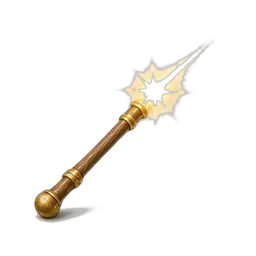
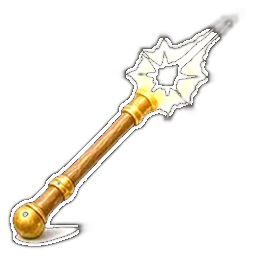
v238: de veer en de toverstok van Bezweringen zijn groter en helderder

Changed region(s): [[0.0312, 0.0312, 0.9375, 0.9688]]

diff --git a/bundel.js b/bundel.js
@@ -164,7 +164,7 @@ ${T?'<button class="knop volgende" id="gsdirect" style="font-size:1.35em;padding
  <section class="kaart hwblok"><h3>\u{1F4DC} Het verhaal</h3><ul class="hwverh">${g.map((ce,fe)=>{const me=ce.d<=U.i;return`<li class="${me?"":"dicht"}">${me?`<button class="linkknop" data-sc="${fe}">${A.sc[fe]?"":'<b class="hwnieuw">Nieuw</b> '}${ce.t}</button>`:`<span>\u{1F512} ${ce.t}</span><small>vanaf ${i(U.j,ce.d)}</small>`}</li>`}).join("")}</ul></section>
  </div>`);const Q=$("#hwclaim");Q&&(Q.onclick=T),document.querySelectorAll("[data-sc]").forEach(ce=>ce.onclick=()=>{const fe=+ce.dataset.sc;x(g[fe],()=>{A.sc[fe]||(A.sc[fe]=1,s(10,"verhaal"),toast("\u{1F4DC} +10 Pompoensnoepjes van Henk")),V.halloween()})}),document.querySelectorAll(".hwopties [data-o]").forEach(ce=>ce.onclick=()=>{const fe=+ce.dataset.o,me=m[N],Le=$("#hwraadres");if(fe===me[2]){A.raad[N]=1,s(15,"raadsel"),S.galjoenen+=10,bewaar();try{stats(),fx.speel("goed"),vib([20,30,40])}catch{}Le.innerHTML=`<div class="hwgoed">${window.tilly?tilly("<b>Goed zo!</b> "+me[3]):""}<p>+15 Pompoensnoepjes \xB7 +10 Smekkies</p><button class="knop klein" id="hwrv">Verder</button></div>`,document.querySelectorAll(".hwopties button").forEach(He=>He.disabled=!0),$("#hwrv").onclick=()=>V.halloween()}else{ce.disabled=!0,ce.classList.add("mis");try{fx.speel("kras")}catch{}Le.innerHTML='<p class="klein hwhint">Hmm, dat is het niet. Probeer gerust nog eens, er is geen haast.</p>'}})};const Z=V.kamer;Z&&(V.kamer=(...U)=>{const A=Z(...U);try{const N=document.querySelector(".kamer");N&&(S.hwTrofee||[]).length&&!N.querySelector(".hwtrofee")&&N.insertAdjacentHTML("beforeend",`<div class="hwtrofee" title="Gouden Pompoen ${S.hwTrofee.join(", ")}"><img src="img/hw/trofee-256.webp" alt="Gouden Pompoen"><small>Halloween ${S.hwTrofee.join(" \xB7 ")}</small></div>`)}catch{}return A});try{if(typeof KAARTEN<"u"&&!KAARTEN.some(U=>U[0]==L)&&(KAARTEN.push([L,"Z","Het huisspook van Griffoendor. Zijn hoofd hangt nog aan \xE9\xE9n reepje vel. Op 31 oktober vierde hij zijn vijfhonderdste sterfdag, en jij was erbij.","img/kaarten/haast-onthoofde-henk.webp","Feestdagen",1]),window.KAARTSERIES&&!KAARTSERIES.includes("Feestdagen")&&KAARTSERIES.push("Feestdagen")),typeof trekKaart=="function"){const U=trekKaart;trekKaart=function(){let A;for(let N=0;N<30;N++)if(A=U(),!A||!A[5])return A;return KAARTEN.find(N=>!N[5])}}}catch(U){console.warn(U)}const ee=V.maker;ee&&(V.maker=(...U)=>{const A=ee(...U);try{const N=o(),Q=localStorage.getItem("zw_hwdatum")||"";$("#app").insertAdjacentHTML("beforeend",`<section class="kaart sierlijst"><h3>Halloween (test)</h3><p class="klein">Nu: ${N.d.toLocaleDateString("nl-NL",{weekday:"long",day:"numeric",month:"long"})} \xB7 ${N.aan?"event AAN (dag "+(N.i+1)+" van 9"+(N.feest?", feestdag":"")+")":"event uit"}${Q?" \xB7 <b>testdatum</b>":""} \xB7 ${(S.hw&&S.hw.tot)|0} snoepjes, stap ${(S.hw&&S.hw.stap)|0}/10</p>
   <p><input type="date" id="hwdat" value="${Q||N.d.getFullYear()+"-"+e(N.d.getMonth()+1)+"-"+e(N.d.getDate())}"> <button class="knop klein" id="hwzet">Gebruik datum</button> <button class="knop klein" id="hwecht">Echte datum</button></p>
-  <p><button class="knop klein" id="hw100">+100 snoepjes</button> <button class="knop klein" id="hwwis">Halloween-voortgang wissen</button></p></section>`),$("#hwzet").onclick=()=>{localStorage.setItem("zw_hwdatum",$("#hwdat").value),te(),V.maker()},$("#hwecht").onclick=()=>{localStorage.removeItem("zw_hwdatum"),te(),V.maker()},$("#hw100").onclick=()=>{s(100,"test"),V.maker()},$("#hwwis").onclick=()=>{delete S.hw,bewaar(),V.maker()}}catch(N){console.warn(N)}return A})})(),(function(){const e="v237";window.ZW_VERSIE=e;const n=()=>`<p class="zwversie">Zweinstein Luna ${e}</p>`,a=V.meer;a&&(V.meer=(...i)=>{const r=a(...i);try{const l=$("#app");l&&!l.querySelector(".zwversie")&&l.insertAdjacentHTML("beforeend",n())}catch{}return r});const o=V.maker;o&&(V.maker=(...i)=>{const r=o(...i);try{const l=$("#app h2");l&&!$("#app .zwversie")&&l.insertAdjacentHTML("afterend",n())}catch{}return r})})(),(()=>{if(typeof m3Winst!="function"||typeof Bord>"u")return;const e=matchMedia("(prefers-reduced-motion: reduce)").matches,n=h=>new Promise(f=>setTimeout(f,h));let a=0,o=0;function i(){let h=document.getElementById("m3sc");if(!h){const f=document.querySelector(".m3mid .m3titel");if(!f)return null;f.insertAdjacentHTML("afterend",'<div class="m3score">Score <b id="m3sc">0</b></div>'),h=document.getElementById("m3sc"),a=0}return h}setInterval(()=>{try{if(typeof M3>"u"||!M3.b||M3.b.sim||document.body.dataset.view!=="match3")return;const h=i();if(!h)return;o=M3.b.score|0,a>o&&(a=o),a<o&&(a=Math.min(o,a+Math.max(5,Math.ceil((o-a)/4))),h.textContent=a.toLocaleString("nl-NL")),p(M3.b)}catch{}},60);let r=null,l=-1;function p(h){const f=document.getElementById("m3bv");if(!f||!h._grens)return;r!==h&&(r=h,l=-1);const K=Math.min(100,a/h._max*100);Math.abs(K-l)>=.2&&(l=K,f.style.width=K.toFixed(1)+"%");const E=document.querySelectorAll("#m3balk .m3bs"),g=[h.klaar&&h.klaar(),a>=h._grens[0],a>=h._grens[1]];E.forEach((x,m)=>{if(g[m]&&!x.classList.contains("aan")){if(x.classList.add("aan","pop"),setTimeout(()=>x.classList.remove("pop"),600),m)try{fx.speel("munt")}catch{}}else!g[m]&&x.classList.contains("aan")&&x.classList.remove("aan")})}const w=h=>{const f=[];for(let K=0;K<RIJEN;K++)for(let E=0;E<KOL;E++){const g=h.g[K][E];g&&g.k>=0&&!g.s&&!h.kist[K][E]&&!(h.strik&&h.strik[K][E])&&f.push([K,E])}return f},y=h=>{const f=[];for(let K=0;K<RIJEN;K++)for(let E=0;E<KOL;E++){const g=h.g[K][E];g&&g.s&&!h.kist[K][E]&&!(h.strik&&h.strik[K][E])&&f.push([K,E])}return f};function d(h,f,K){if(e||!h||!f)return;const E=document.createElement("div");E.className="m3vonk",document.body.appendChild(E);const g=f[0]-h[0],x=f[1]-h[1];E.style.left=h[0]+"px",E.style.top=h[1]+"px",E.animate([{transform:"translate(-50%,-50%) scale(.6)",opacity:.2},{transform:`translate(calc(${g*.5}px - 50%),calc(${x*.5-40}px - 50%)) scale(1.1)`,opacity:1,offset:.5},{transform:`translate(calc(${g}px - 50%),calc(${x}px - 50%)) scale(.7)`,opacity:.9}],{duration:K,easing:"cubic-bezier(.4,0,.3,1)",fill:"forwards"}).onfinish=()=>E.remove(),setTimeout(()=>E.remove(),K+400)}function j(h,f,K){const E=document.createElement("div");E.className="m3plus",E.textContent=K,E.style.left=h+"px",E.style.top=f+"px",document.body.appendChild(E),setTimeout(()=>E.remove(),900)}async function u(h){const f={pop:0,boem:0,spec:0,score0:h.score|0};window._feestLog=f;const K=document.getElementById("m3c"),E=document.getElementById("m3z");if(!K||!E)return;const g=(h._feestZet!=null?h._feestZet:h.zet)|0;let x=g,m=1,k=0;h.telDoel=()=>{},h.zaadKist=1;const v=h.fx.push;h.fx.push=function(...se){return v.apply(this,se.map(ae=>ae&&ae.t=="schat"?{t:"tik",r:ae.r,c:ae.c,s:ae.s}:ae&&ae.t=="vrij"?{t:"plank",r:ae.r,c:ae.c,over:0}:ae))},h.wacht=se=>new Promise(ae=>setTimeout(ae,se/m));const s=document.createElement("div");s.id="m3feest",s.innerHTML="<span>Tik om te versnellen</span>",document.body.appendChild(s),s.addEventListener("pointerdown",se=>{se.preventDefault(),k++,m=Math.min(12,k==1?3.5:m*1.7),s.classList.add("snel"),s.querySelector("span").textContent=m>=6?"\u23E9\u23E9 Supersnel":"\u23E9 Sneller";try{fx.speel("whoosh")}catch{}});const z=()=>K.getBoundingClientRect(),c=()=>z().width/KOL,b=(se,ae)=>{const te=z(),pe=te.width/KOL;return[te.left+(ae+.5)*pe,te.top+(se+.5)*pe]},M=()=>{const se=E.getBoundingClientRect();return[se.left+se.width/2,se.top+se.height/2]},R=Math.max(70,Math.min(170,4200/Math.max(1,g)));try{for(let te=1;te<=g;te++){const pe=w(h);if(!pe.length)break;const ne=R/m,X=pe[Math.random()*pe.length|0];d(M(),b(...X),Math.max(60,ne*1.1)),x--,E.textContent=x,E.parentNode.classList.toggle("weinig",!1),await n(Math.max(40,ne*1.05));const[t,_]=X;if(te%5===0){const O=[];for(let de=t-1;de<=t+1;de++)for(let C=_-1;C<=_+1;C++)if(h.binnen(de,C)){const T=h.g[de][C];T&&T.k>=0&&!T.s&&!h.kist[de][C]&&!(h.strik&&h.strik[de][C])&&O.push([de,C,T.k])}O.forEach(([de,C,T])=>{h.g[de][C].weg=1,h.g[de][C]=null,h.fx.push({t:"pof",r:de,c:C,k:T})}),h.fx.push({t:"bom",r:t,c:_,R:1});const D=60*O.length+200;h.score+=D,f.boem++;const q=b(t,_);j(q[0],q[1],"+"+D);try{fx.speel("kist")}catch{}}else{const O=h.g[t][_];O&&(O.weg=1,h.g[t][_]=null,h.fx.push({t:"pof",r:t,c:_,k:O.k})),h.score+=100,f.pop++;const D=b(t,_);te%2&&j(D[0],D[1],"+100");try{fx.speel("klik")}catch{}}try{M3.toonFx()}catch{}h.val()}E.textContent=0,await n(Math.max(60,260/m)),await M3.knal([]);const se=Date.now();let ae=0;for(;ae<30&&Date.now()-se<9e3;){const te=y(h);if(!te.length)break;const pe=te.sort((_,O)=>_[0]-O[0]||_[1]-O[1])[0],ne=b(...pe),X=h.score;if(!await M3.knal([pe])){await n(120),ae++;continue}h.score+=150,f.spec++,ae++,j(ne[0],ne[1],"+"+(h.score-X|0));try{fx.speel("tover")}catch{}await n(Math.max(40,180/m))}await n(Math.max(80,350/m))}catch(se){console.warn(se)}finally{s.remove(),delete h.telDoel,delete h.wacht,h.fx.push=v,E.textContent=g,f.score=h.score|0,f.sp=m;const se=i();se&&(a=h.score|0,se.textContent=a.toLocaleString("nl-NL"))}}const L=m3Winst;window.m3Winst=m3Winst=function(h,f,...K){let E=!1;try{E=!!(f&&!f.sim&&!f._feest&&f.zet>0&&typeof M3<"u"&&M3.b===f&&M3.knal&&document.getElementById("m3c")&&document.body.dataset.view==="match3")}catch{}const g=()=>{let k;try{k=L.call(this,h,f,...K)}finally{try{ECO.winKlaar(h)}catch{}}try{const v=f.score|0,s=document.querySelector(".m3eind h2");s&&v&&!document.querySelector(".m3eindscore")&&s.insertAdjacentHTML("afterend",`<p class="m3eindscore">Score <b>${v.toLocaleString("nl-NL")}</b></p>`)}catch{}return k};if(!E)return g();f._feest=1;try{ECO.winStart(h,f)}catch{}let x=!1;const m=()=>{x||(x=!0,g())};u(f).catch(k=>console.warn(k)).finally(m),setTimeout(m,3e4)}})(),(()=>{if(typeof V>"u"||!V.mijnkas)return;const e=m=>typeof m=="function",n=()=>S.m3lvl|0,a=m=>typeof ZADEN<"u"&&ZADEN[m]?ZADEN[m][0]:m,o=()=>Date.now(),i=[1e3,1600,2400,3200],r=["de groene kruidenpot","de Edelsteenpot","de Kristalpot","de Hartpot"];function l(){const m=[];return document.querySelectorAll(".mk-pot[data-i]").forEach(k=>m.push({i:+k.dataset.i,el:k,sel:`.mk-pot[data-i="${k.dataset.i}"]`})),document.querySelectorAll(".mk-vloer[data-m]").forEach(k=>{const v=+k.dataset.m;S.mega&&S.mega[v]||m.push({i:200+v,el:k,sel:`.mk-vloer[data-m="${v}"]`})}),m}const p=m=>(S.kweek||{})[m]||null,w=m=>e(window.stadium)||typeof stadium=="function"?stadium(m):-1;function y(m){return Object.keys(S.zaden||{}).filter(k=>(S.zaden[k]|0)>0&&typeof ZADEN<"u"&&ZADEN[k]&&(typeof kruidMag!="function"||kruidMag(k,m)))}function d(){if(typeof ZADEN>"u")return null;let m=null;return Object.entries(ZADEN).forEach(([k,v])=>{window.SUPERPLANTEN&&SUPERPLANTEN[k]||window.zaadDicht&&zaadDicht(k)||typeof kruidSlot=="function"&&kruidSlot(k)||(!m||v[3]<m[1])&&(m=[k,v[3]])}),m}function j(){const m=[],k=l(),v=k.filter(te=>!p(te.i)),s=k.filter(te=>p(te.i)&&w(p(te.i))<4),z=k.filter(te=>p(te.i)&&w(p(te.i))==4),c=S.galjoenen|0,b=window.leraarPoort&&leraarPoort();if(b){const te=i[0];m.push({id:"poort",ico:"\u{1FAB4}",wie:b.prof,tekst:c>=te?`Koop ${r[0]} bij Potten. Dan gaat level ${b.na+1} open.`:`Spaar voor ${r[0]}. Daarna gaat level ${b.na+1} open.`,tel:`${Math.min(c,te)}/${te}`,doel:"#potwinkel",doen:c>=te})}if(z.length){const te=z[0];m.push({id:"oogst",ico:"\u{1F33F}",tekst:z.length>1?`Oogst je planten! ${a(p(te.i).z)} is klaar, en nog ${z.length-1} andere.`:`Oogst je ${a(p(te.i).z)}. Hij is klaar!`,tel:null,doel:te.sel,doen:!0})}if(e(window.kOpdr)||typeof kOpdr=="function")try{const te=kOpdr(),pe=te[0],ne=window.zaadDicht&&zaadDicht(pe),X=typeof kruidSlot=="function"&&kruidSlot(pe),t=kOpdrTel();if(ne||X)m.push({id:"opdr",ico:"\u{1F4DC}",wie:te[3],tekst:te[2],tel:`${t}/${te[1]}`,dicht:ne?`Vanaf level ${ne}`:"Eerst de groene kruidenpot"});else{const _=s.find(C=>p(C.i).z===pe),O=v.find(C=>typeof kruidMag!="function"||kruidMag(pe,C.i));let D,q=null,de=!1;z.some(C=>p(C.i).z===pe)?(D=`Oogst je ${a(pe)}.`,q=z.find(C=>p(C.i).z===pe).sel,de=!0):_?(D=`Je ${a(pe)} groeit. Nog ${tijd(rest(p(_.i)))}.`,q=_.sel):(S.zaden[pe]|0)>0&&O?(D=`Plant een ${a(pe)}-zaadje.`,q=O.sel,de=!0):(S.zaden[pe]|0)>0?D=`Plant een ${a(pe)}-zaadje zodra er een pot vrij is.`:c>=ZADEN[pe][3]?(D=`Koop een ${a(pe)}-zaadje in de Winkel.`,q="#balkwinkel",de=!0):D=`Speel een level voor Smekkies voor een ${a(pe)}-zaadje.`,m.push({id:"opdr",ico:"\u{1F4DC}",wie:te[3],tekst:`${te[2]}. ${D}`,tel:`${t}/${te[1]}`,doel:q,doen:de})}}catch{}if(v.length){const te=v[0];if(y(te.i).length)m.push({id:"plant",ico:"\u{1F331}",tekst:"Plant een zaadje in je lege pot.",tel:null,doel:te.sel,doen:!0});else{const ne=d();ne&&c>=ne[1]&&m.push({id:"zaad",ico:"\u{1F6CD}\uFE0F",tekst:`Koop zaadjes in de Winkel (${a(ne[0])} kost ${ne[1]} Smekkies).`,doel:"#balkwinkel",doen:!0})}}const M=te=>window.spreukGeleerd&&spreukGeleerd(te),R=te=>!window.spreukOpen||spreukOpen(te),se=window.SPREUK_VAN||{flipendo:3,leviosa:6};if(window.waterMag&&waterMag())if(!S.kooiOpen)m.push({id:"kooi",ico:"\u{1F513}",tekst:"Open de kooi: tik op de knop met Flipendo naast het blok.",doel:".mk-kooiknop",doen:!0});else{const te=document.querySelector(".mk-kamer"),pe=te&&te.classList.contains("sproei"),X=1-((S.water||{}).blok|0),t=document.querySelector(`.mk-silos .mk-unit[data-i="${X}"] span`),_=t&&parseInt(t.textContent)>=100;!pe&&_&&m.push({id:"blok",ico:"\u{1F4A7}",tekst:"Een silo is vol! Laat het blok met Wingardium Leviosa naar de knop bij die silo zweven.",doel:".mk-blok",doen:!0})}else for(const[te,pe]of[["flipendo","Flipendo"],["leviosa","Wingardium Leviosa"]])if(!M(te)){R(te)?m.push({id:"les-"+te,ico:"\u{1FA84}",wie:"Professor Banning",tekst:`Leer ${pe} bij Professor Banning. Dan kan het water in je kas aan.`,doel:".mk-leviosa .knop",doen:!0}):m.push({id:"les-"+te,ico:"\u{1FA84}",wie:"Professor Banning",tekst:`Leer ${pe} voor de sproeiers.`,dicht:`Vanaf level ${se[te]}`});break}if(!document.querySelector(".mk-kamer.sproei")){const te=s.find(pe=>!(p(pe.i).nat>o()));te&&m.push({id:"water",ico:"\u{1F4A6}",tekst:`Geef je ${a(p(te.i).z)} water. Dan groeit hij 25% sneller.`,doel:te.sel,doen:!0})}try{const te=ne=>typeof telV=="function"?telV("oogst",ne):0;if(typeof dagQuests=="function"){const ne=dagQuests().find(X=>X[0]==="oogst");ne&&!(S.questKlaar||{})[vandaag()+"oogst"]&&te(0)<ne[1]&&m.push({id:"quest",ico:"\u{1F4CB}",tekst:ne[2]+".",tel:`${Math.min(ne[1],te(0))}/${ne[1]}`,info:1})}if((((S.tel||{})[vandaag()]||{}).oogst|0)<1&&m.push({id:"dagdoel",ico:"\u2B50",tekst:"Dagdoel: oogst vandaag een plant.",tel:"0/1",info:1}),typeof WEEKQ<"u"){const ne=WEEKQ.find(X=>X[0]==="oogst");ne&&te(1)<ne[1]&&m.push({id:"week",ico:"\u{1F4C5}",tekst:ne[2]+".",tel:`${Math.min(ne[1],te(1))}/${ne[1]}`,info:1})}}catch{}if(!b){const te=S.potUpgrade|0,pe=n()>=101||!!S.groteTafel||te>=3;te<4&&(te<2||pe)&&c>=i[te]&&m.push({id:"pot",ico:"\u{1F3FA}",tekst:`Je kunt ${r[te]} kopen bij Potten (${i[te]} Smekkies). Dan heb je plek voor een plant meer.`,doel:"#potwinkel",doen:!0})}return{T:m,groei:s}}function u(m){if(!m.length)return"Alles gedaan! Speel een level, dan verdien je Smekkies voor nieuwe zaadjes.";const k=Math.min(...m.map(v=>rest(p(v.i))));return`Alles gedaan! Kom terug als je planten klaar zijn (over ${tijd(k)}).`}let L=!1,h="";const f=m=>String(m).replace(/[&<>"]/g,k=>({"&":"&amp;","<":"&lt;",">":"&gt;",'"':"&quot;"})[k]);function K(m){if(document.body.dataset.view!=="mijnkas")return;const k=document.getElementById("app");if(!k||!k.querySelector(".mk-kamer"))return;const{T:v,groei:s}=j(),c=v.filter(ae=>ae.doen&&!ae.dicht)[0]||null,b=v.filter(ae=>ae!==c),M=JSON.stringify([L,v.map(ae=>[ae.id,ae.tekst,ae.tel,ae.dicht]),c?"":u(s)]);if(!m&&M===h&&document.getElementById("kastaak"))return;h=M;let R=document.getElementById("kastaak");R||(R=document.createElement("section"),R.id="kastaak",R.className="kastaak",k.appendChild(R));const se=ae=>`<li class="${ae.dicht?"dicht":""}${ae.info?" info":""}"><span class="kt-ico">${ae.ico}</span><span class="kt-txt">${ae.wie&&!ae.tekst.includes(ae.wie)?`<b>${f(ae.wie)}:</b> `:""}${f(ae.tekst)}${ae.dicht?` <em class="kt-slot">\u{1F512} ${f(ae.dicht)}</em>`:""}</span>${ae.tel?`<span class="kt-tel">${ae.tel}</span>`:""}${ae.doel&&!ae.dicht?`<button type="button" class="kt-wijs" data-doel="${f(ae.doel)}" aria-label="Laat zien waar">\u279C</button>`:""}</li>`;R.innerHTML=`<div class="kt-kop" role="button" aria-expanded="${L}"><span class="kt-label">${c?"Volgende stap":"Klaar voor nu"}</span>${b.length?`<span class="kt-meer">${L?"Minder \u25B4":`Nog ${b.length} \u25BE`}</span>`:""}</div>
+  <p><button class="knop klein" id="hw100">+100 snoepjes</button> <button class="knop klein" id="hwwis">Halloween-voortgang wissen</button></p></section>`),$("#hwzet").onclick=()=>{localStorage.setItem("zw_hwdatum",$("#hwdat").value),te(),V.maker()},$("#hwecht").onclick=()=>{localStorage.removeItem("zw_hwdatum"),te(),V.maker()},$("#hw100").onclick=()=>{s(100,"test"),V.maker()},$("#hwwis").onclick=()=>{delete S.hw,bewaar(),V.maker()}}catch(N){console.warn(N)}return A})})(),(function(){const e="v238";window.ZW_VERSIE=e;const n=()=>`<p class="zwversie">Zweinstein Luna ${e}</p>`,a=V.meer;a&&(V.meer=(...i)=>{const r=a(...i);try{const l=$("#app");l&&!l.querySelector(".zwversie")&&l.insertAdjacentHTML("beforeend",n())}catch{}return r});const o=V.maker;o&&(V.maker=(...i)=>{const r=o(...i);try{const l=$("#app h2");l&&!$("#app .zwversie")&&l.insertAdjacentHTML("afterend",n())}catch{}return r})})(),(()=>{if(typeof m3Winst!="function"||typeof Bord>"u")return;const e=matchMedia("(prefers-reduced-motion: reduce)").matches,n=h=>new Promise(f=>setTimeout(f,h));let a=0,o=0;function i(){let h=document.getElementById("m3sc");if(!h){const f=document.querySelector(".m3mid .m3titel");if(!f)return null;f.insertAdjacentHTML("afterend",'<div class="m3score">Score <b id="m3sc">0</b></div>'),h=document.getElementById("m3sc"),a=0}return h}setInterval(()=>{try{if(typeof M3>"u"||!M3.b||M3.b.sim||document.body.dataset.view!=="match3")return;const h=i();if(!h)return;o=M3.b.score|0,a>o&&(a=o),a<o&&(a=Math.min(o,a+Math.max(5,Math.ceil((o-a)/4))),h.textContent=a.toLocaleString("nl-NL")),p(M3.b)}catch{}},60);let r=null,l=-1;function p(h){const f=document.getElementById("m3bv");if(!f||!h._grens)return;r!==h&&(r=h,l=-1);const K=Math.min(100,a/h._max*100);Math.abs(K-l)>=.2&&(l=K,f.style.width=K.toFixed(1)+"%");const E=document.querySelectorAll("#m3balk .m3bs"),g=[h.klaar&&h.klaar(),a>=h._grens[0],a>=h._grens[1]];E.forEach((x,m)=>{if(g[m]&&!x.classList.contains("aan")){if(x.classList.add("aan","pop"),setTimeout(()=>x.classList.remove("pop"),600),m)try{fx.speel("munt")}catch{}}else!g[m]&&x.classList.contains("aan")&&x.classList.remove("aan")})}const w=h=>{const f=[];for(let K=0;K<RIJEN;K++)for(let E=0;E<KOL;E++){const g=h.g[K][E];g&&g.k>=0&&!g.s&&!h.kist[K][E]&&!(h.strik&&h.strik[K][E])&&f.push([K,E])}return f},y=h=>{const f=[];for(let K=0;K<RIJEN;K++)for(let E=0;E<KOL;E++){const g=h.g[K][E];g&&g.s&&!h.kist[K][E]&&!(h.strik&&h.strik[K][E])&&f.push([K,E])}return f};function d(h,f,K){if(e||!h||!f)return;const E=document.createElement("div");E.className="m3vonk",document.body.appendChild(E);const g=f[0]-h[0],x=f[1]-h[1];E.style.left=h[0]+"px",E.style.top=h[1]+"px",E.animate([{transform:"translate(-50%,-50%) scale(.6)",opacity:.2},{transform:`translate(calc(${g*.5}px - 50%),calc(${x*.5-40}px - 50%)) scale(1.1)`,opacity:1,offset:.5},{transform:`translate(calc(${g}px - 50%),calc(${x}px - 50%)) scale(.7)`,opacity:.9}],{duration:K,easing:"cubic-bezier(.4,0,.3,1)",fill:"forwards"}).onfinish=()=>E.remove(),setTimeout(()=>E.remove(),K+400)}function j(h,f,K){const E=document.createElement("div");E.className="m3plus",E.textContent=K,E.style.left=h+"px",E.style.top=f+"px",document.body.appendChild(E),setTimeout(()=>E.remove(),900)}async function u(h){const f={pop:0,boem:0,spec:0,score0:h.score|0};window._feestLog=f;const K=document.getElementById("m3c"),E=document.getElementById("m3z");if(!K||!E)return;const g=(h._feestZet!=null?h._feestZet:h.zet)|0;let x=g,m=1,k=0;h.telDoel=()=>{},h.zaadKist=1;const v=h.fx.push;h.fx.push=function(...se){return v.apply(this,se.map(ae=>ae&&ae.t=="schat"?{t:"tik",r:ae.r,c:ae.c,s:ae.s}:ae&&ae.t=="vrij"?{t:"plank",r:ae.r,c:ae.c,over:0}:ae))},h.wacht=se=>new Promise(ae=>setTimeout(ae,se/m));const s=document.createElement("div");s.id="m3feest",s.innerHTML="<span>Tik om te versnellen</span>",document.body.appendChild(s),s.addEventListener("pointerdown",se=>{se.preventDefault(),k++,m=Math.min(12,k==1?3.5:m*1.7),s.classList.add("snel"),s.querySelector("span").textContent=m>=6?"\u23E9\u23E9 Supersnel":"\u23E9 Sneller";try{fx.speel("whoosh")}catch{}});const z=()=>K.getBoundingClientRect(),c=()=>z().width/KOL,b=(se,ae)=>{const te=z(),pe=te.width/KOL;return[te.left+(ae+.5)*pe,te.top+(se+.5)*pe]},M=()=>{const se=E.getBoundingClientRect();return[se.left+se.width/2,se.top+se.height/2]},R=Math.max(70,Math.min(170,4200/Math.max(1,g)));try{for(let te=1;te<=g;te++){const pe=w(h);if(!pe.length)break;const ne=R/m,X=pe[Math.random()*pe.length|0];d(M(),b(...X),Math.max(60,ne*1.1)),x--,E.textContent=x,E.parentNode.classList.toggle("weinig",!1),await n(Math.max(40,ne*1.05));const[t,_]=X;if(te%5===0){const O=[];for(let de=t-1;de<=t+1;de++)for(let C=_-1;C<=_+1;C++)if(h.binnen(de,C)){const T=h.g[de][C];T&&T.k>=0&&!T.s&&!h.kist[de][C]&&!(h.strik&&h.strik[de][C])&&O.push([de,C,T.k])}O.forEach(([de,C,T])=>{h.g[de][C].weg=1,h.g[de][C]=null,h.fx.push({t:"pof",r:de,c:C,k:T})}),h.fx.push({t:"bom",r:t,c:_,R:1});const D=60*O.length+200;h.score+=D,f.boem++;const q=b(t,_);j(q[0],q[1],"+"+D);try{fx.speel("kist")}catch{}}else{const O=h.g[t][_];O&&(O.weg=1,h.g[t][_]=null,h.fx.push({t:"pof",r:t,c:_,k:O.k})),h.score+=100,f.pop++;const D=b(t,_);te%2&&j(D[0],D[1],"+100");try{fx.speel("klik")}catch{}}try{M3.toonFx()}catch{}h.val()}E.textContent=0,await n(Math.max(60,260/m)),await M3.knal([]);const se=Date.now();let ae=0;for(;ae<30&&Date.now()-se<9e3;){const te=y(h);if(!te.length)break;const pe=te.sort((_,O)=>_[0]-O[0]||_[1]-O[1])[0],ne=b(...pe),X=h.score;if(!await M3.knal([pe])){await n(120),ae++;continue}h.score+=150,f.spec++,ae++,j(ne[0],ne[1],"+"+(h.score-X|0));try{fx.speel("tover")}catch{}await n(Math.max(40,180/m))}await n(Math.max(80,350/m))}catch(se){console.warn(se)}finally{s.remove(),delete h.telDoel,delete h.wacht,h.fx.push=v,E.textContent=g,f.score=h.score|0,f.sp=m;const se=i();se&&(a=h.score|0,se.textContent=a.toLocaleString("nl-NL"))}}const L=m3Winst;window.m3Winst=m3Winst=function(h,f,...K){let E=!1;try{E=!!(f&&!f.sim&&!f._feest&&f.zet>0&&typeof M3<"u"&&M3.b===f&&M3.knal&&document.getElementById("m3c")&&document.body.dataset.view==="match3")}catch{}const g=()=>{let k;try{k=L.call(this,h,f,...K)}finally{try{ECO.winKlaar(h)}catch{}}try{const v=f.score|0,s=document.querySelector(".m3eind h2");s&&v&&!document.querySelector(".m3eindscore")&&s.insertAdjacentHTML("afterend",`<p class="m3eindscore">Score <b>${v.toLocaleString("nl-NL")}</b></p>`)}catch{}return k};if(!E)return g();f._feest=1;try{ECO.winStart(h,f)}catch{}let x=!1;const m=()=>{x||(x=!0,g())};u(f).catch(k=>console.warn(k)).finally(m),setTimeout(m,3e4)}})(),(()=>{if(typeof V>"u"||!V.mijnkas)return;const e=m=>typeof m=="function",n=()=>S.m3lvl|0,a=m=>typeof ZADEN<"u"&&ZADEN[m]?ZADEN[m][0]:m,o=()=>Date.now(),i=[1e3,1600,2400,3200],r=["de groene kruidenpot","de Edelsteenpot","de Kristalpot","de Hartpot"];function l(){const m=[];return document.querySelectorAll(".mk-pot[data-i]").forEach(k=>m.push({i:+k.dataset.i,el:k,sel:`.mk-pot[data-i="${k.dataset.i}"]`})),document.querySelectorAll(".mk-vloer[data-m]").forEach(k=>{const v=+k.dataset.m;S.mega&&S.mega[v]||m.push({i:200+v,el:k,sel:`.mk-vloer[data-m="${v}"]`})}),m}const p=m=>(S.kweek||{})[m]||null,w=m=>e(window.stadium)||typeof stadium=="function"?stadium(m):-1;function y(m){return Object.keys(S.zaden||{}).filter(k=>(S.zaden[k]|0)>0&&typeof ZADEN<"u"&&ZADEN[k]&&(typeof kruidMag!="function"||kruidMag(k,m)))}function d(){if(typeof ZADEN>"u")return null;let m=null;return Object.entries(ZADEN).forEach(([k,v])=>{window.SUPERPLANTEN&&SUPERPLANTEN[k]||window.zaadDicht&&zaadDicht(k)||typeof kruidSlot=="function"&&kruidSlot(k)||(!m||v[3]<m[1])&&(m=[k,v[3]])}),m}function j(){const m=[],k=l(),v=k.filter(te=>!p(te.i)),s=k.filter(te=>p(te.i)&&w(p(te.i))<4),z=k.filter(te=>p(te.i)&&w(p(te.i))==4),c=S.galjoenen|0,b=window.leraarPoort&&leraarPoort();if(b){const te=i[0];m.push({id:"poort",ico:"\u{1FAB4}",wie:b.prof,tekst:c>=te?`Koop ${r[0]} bij Potten. Dan gaat level ${b.na+1} open.`:`Spaar voor ${r[0]}. Daarna gaat level ${b.na+1} open.`,tel:`${Math.min(c,te)}/${te}`,doel:"#potwinkel",doen:c>=te})}if(z.length){const te=z[0];m.push({id:"oogst",ico:"\u{1F33F}",tekst:z.length>1?`Oogst je planten! ${a(p(te.i).z)} is klaar, en nog ${z.length-1} andere.`:`Oogst je ${a(p(te.i).z)}. Hij is klaar!`,tel:null,doel:te.sel,doen:!0})}if(e(window.kOpdr)||typeof kOpdr=="function")try{const te=kOpdr(),pe=te[0],ne=window.zaadDicht&&zaadDicht(pe),X=typeof kruidSlot=="function"&&kruidSlot(pe),t=kOpdrTel();if(ne||X)m.push({id:"opdr",ico:"\u{1F4DC}",wie:te[3],tekst:te[2],tel:`${t}/${te[1]}`,dicht:ne?`Vanaf level ${ne}`:"Eerst de groene kruidenpot"});else{const _=s.find(C=>p(C.i).z===pe),O=v.find(C=>typeof kruidMag!="function"||kruidMag(pe,C.i));let D,q=null,de=!1;z.some(C=>p(C.i).z===pe)?(D=`Oogst je ${a(pe)}.`,q=z.find(C=>p(C.i).z===pe).sel,de=!0):_?(D=`Je ${a(pe)} groeit. Nog ${tijd(rest(p(_.i)))}.`,q=_.sel):(S.zaden[pe]|0)>0&&O?(D=`Plant een ${a(pe)}-zaadje.`,q=O.sel,de=!0):(S.zaden[pe]|0)>0?D=`Plant een ${a(pe)}-zaadje zodra er een pot vrij is.`:c>=ZADEN[pe][3]?(D=`Koop een ${a(pe)}-zaadje in de Winkel.`,q="#balkwinkel",de=!0):D=`Speel een level voor Smekkies voor een ${a(pe)}-zaadje.`,m.push({id:"opdr",ico:"\u{1F4DC}",wie:te[3],tekst:`${te[2]}. ${D}`,tel:`${t}/${te[1]}`,doel:q,doen:de})}}catch{}if(v.length){const te=v[0];if(y(te.i).length)m.push({id:"plant",ico:"\u{1F331}",tekst:"Plant een zaadje in je lege pot.",tel:null,doel:te.sel,doen:!0});else{const ne=d();ne&&c>=ne[1]&&m.push({id:"zaad",ico:"\u{1F6CD}\uFE0F",tekst:`Koop zaadjes in de Winkel (${a(ne[0])} kost ${ne[1]} Smekkies).`,doel:"#balkwinkel",doen:!0})}}const M=te=>window.spreukGeleerd&&spreukGeleerd(te),R=te=>!window.spreukOpen||spreukOpen(te),se=window.SPREUK_VAN||{flipendo:3,leviosa:6};if(window.waterMag&&waterMag())if(!S.kooiOpen)m.push({id:"kooi",ico:"\u{1F513}",tekst:"Open de kooi: tik op de knop met Flipendo naast het blok.",doel:".mk-kooiknop",doen:!0});else{const te=document.querySelector(".mk-kamer"),pe=te&&te.classList.contains("sproei"),X=1-((S.water||{}).blok|0),t=document.querySelector(`.mk-silos .mk-unit[data-i="${X}"] span`),_=t&&parseInt(t.textContent)>=100;!pe&&_&&m.push({id:"blok",ico:"\u{1F4A7}",tekst:"Een silo is vol! Laat het blok met Wingardium Leviosa naar de knop bij die silo zweven.",doel:".mk-blok",doen:!0})}else for(const[te,pe]of[["flipendo","Flipendo"],["leviosa","Wingardium Leviosa"]])if(!M(te)){R(te)?m.push({id:"les-"+te,ico:"\u{1FA84}",wie:"Professor Banning",tekst:`Leer ${pe} bij Professor Banning. Dan kan het water in je kas aan.`,doel:".mk-leviosa .knop",doen:!0}):m.push({id:"les-"+te,ico:"\u{1FA84}",wie:"Professor Banning",tekst:`Leer ${pe} voor de sproeiers.`,dicht:`Vanaf level ${se[te]}`});break}if(!document.querySelector(".mk-kamer.sproei")){const te=s.find(pe=>!(p(pe.i).nat>o()));te&&m.push({id:"water",ico:"\u{1F4A6}",tekst:`Geef je ${a(p(te.i).z)} water. Dan groeit hij 25% sneller.`,doel:te.sel,doen:!0})}try{const te=ne=>typeof telV=="function"?telV("oogst",ne):0;if(typeof dagQuests=="function"){const ne=dagQuests().find(X=>X[0]==="oogst");ne&&!(S.questKlaar||{})[vandaag()+"oogst"]&&te(0)<ne[1]&&m.push({id:"quest",ico:"\u{1F4CB}",tekst:ne[2]+".",tel:`${Math.min(ne[1],te(0))}/${ne[1]}`,info:1})}if((((S.tel||{})[vandaag()]||{}).oogst|0)<1&&m.push({id:"dagdoel",ico:"\u2B50",tekst:"Dagdoel: oogst vandaag een plant.",tel:"0/1",info:1}),typeof WEEKQ<"u"){const ne=WEEKQ.find(X=>X[0]==="oogst");ne&&te(1)<ne[1]&&m.push({id:"week",ico:"\u{1F4C5}",tekst:ne[2]+".",tel:`${Math.min(ne[1],te(1))}/${ne[1]}`,info:1})}}catch{}if(!b){const te=S.potUpgrade|0,pe=n()>=101||!!S.groteTafel||te>=3;te<4&&(te<2||pe)&&c>=i[te]&&m.push({id:"pot",ico:"\u{1F3FA}",tekst:`Je kunt ${r[te]} kopen bij Potten (${i[te]} Smekkies). Dan heb je plek voor een plant meer.`,doel:"#potwinkel",doen:!0})}return{T:m,groei:s}}function u(m){if(!m.length)return"Alles gedaan! Speel een level, dan verdien je Smekkies voor nieuwe zaadjes.";const k=Math.min(...m.map(v=>rest(p(v.i))));return`Alles gedaan! Kom terug als je planten klaar zijn (over ${tijd(k)}).`}let L=!1,h="";const f=m=>String(m).replace(/[&<>"]/g,k=>({"&":"&amp;","<":"&lt;",">":"&gt;",'"':"&quot;"})[k]);function K(m){if(document.body.dataset.view!=="mijnkas")return;const k=document.getElementById("app");if(!k||!k.querySelector(".mk-kamer"))return;const{T:v,groei:s}=j(),c=v.filter(ae=>ae.doen&&!ae.dicht)[0]||null,b=v.filter(ae=>ae!==c),M=JSON.stringify([L,v.map(ae=>[ae.id,ae.tekst,ae.tel,ae.dicht]),c?"":u(s)]);if(!m&&M===h&&document.getElementById("kastaak"))return;h=M;let R=document.getElementById("kastaak");R||(R=document.createElement("section"),R.id="kastaak",R.className="kastaak",k.appendChild(R));const se=ae=>`<li class="${ae.dicht?"dicht":""}${ae.info?" info":""}"><span class="kt-ico">${ae.ico}</span><span class="kt-txt">${ae.wie&&!ae.tekst.includes(ae.wie)?`<b>${f(ae.wie)}:</b> `:""}${f(ae.tekst)}${ae.dicht?` <em class="kt-slot">\u{1F512} ${f(ae.dicht)}</em>`:""}</span>${ae.tel?`<span class="kt-tel">${ae.tel}</span>`:""}${ae.doel&&!ae.dicht?`<button type="button" class="kt-wijs" data-doel="${f(ae.doel)}" aria-label="Laat zien waar">\u279C</button>`:""}</li>`;R.innerHTML=`<div class="kt-kop" role="button" aria-expanded="${L}"><span class="kt-label">${c?"Volgende stap":"Klaar voor nu"}</span>${b.length?`<span class="kt-meer">${L?"Minder \u25B4":`Nog ${b.length} \u25BE`}</span>`:""}</div>
  <div class="kt-hoofd">${c?`<span class="kt-ico">${c.ico}</span><span class="kt-txt">${c.wie&&!c.tekst.includes(c.wie)?`<b>${f(c.wie)}:</b> `:""}${f(c.tekst)}</span>${c.tel?`<span class="kt-tel">${c.tel}</span>`:""}${c.doel?`<button type="button" class="kt-wijs groot" data-doel="${f(c.doel)}" aria-label="Laat zien waar">\u279C</button>`:""}`:`<span class="kt-ico">\u2728</span><span class="kt-txt">${f(u(s))}</span>`}</div>
  ${L&&b.length?`<ul class="kt-lijst">${b.map(se).join("")}</ul>`:""}`,R.querySelector(".kt-kop").onclick=()=>{L=!L,K(!0)},R.querySelector(".kt-hoofd").onclick=ae=>{ae.target.closest(".kt-wijs")||(b.length?(L=!L,K(!0)):c&&c.doel&&E(c.doel))},R.querySelectorAll(".kt-wijs").forEach(ae=>ae.onclick=te=>{te.stopPropagation(),E(ae.dataset.doel)}),c&&c.doel&&!E.gedaan&&(E.gedaan=1,setTimeout(()=>E(c.doel,1),900))}function E(m,k){const v=document.querySelector(m);if(v){try{v.scrollIntoView({behavior:matchMedia("(prefers-reduced-motion: reduce)").matches?"auto":"smooth",inline:"center",block:"nearest"})}catch{}if(document.querySelectorAll(".kt-gloed").forEach(s=>s.classList.remove("kt-gloed")),v.classList.add("kt-gloed"),clearTimeout(E.t),E.t=setTimeout(()=>v.classList.remove("kt-gloed"),k?3500:5e3),!k){L&&(L=!1,K(!0));try{fx.speel("klik")}catch{}}}}window.zwKasTaken=()=>j();const g=V.mijnkas;V.mijnkas=(...m)=>{const k=g(...m);try{h="",K(!0)}catch(v){console.warn(v)}return k};const x=ga;ga=function(m,...k){return m==="mijnkas"&&(E.gedaan=0),x(m,...k)},setInterval(()=>{try{document.body.dataset.view==="mijnkas"&&!document.querySelector(".modal")&&K()}catch{}},2e3)})(),(()=>{if(typeof KOPDR>"u"||typeof kOpdr!="function")return;const e=kOpdr,n=p=>window.ZAAD_VAN&&ZAAD_VAN[p]||1,a=p=>!(window.zaadDicht&&zaadDicht(p))&&!(typeof kruidSlot=="function"&&kruidSlot(p)),o=()=>KOPDR.map((p,w)=>({o:p,i:w})).sort((p,w)=>n(p.o[0])-n(w.o[0])||p.i-w.i),i=p=>KOPDR.find(w=>w[0]===p);function r(){S.kweekGedaan=S.kweekGedaan||{};const p=o().filter(w=>a(w.o[0]));return p.length?(p.sort((w,y)=>(S.kweekGedaan[w.o[0]]|0)-(S.kweekGedaan[y.o[0]]|0)||n(w.o[0])-n(y.o[0])||w.i-y.i),p[0].o):o()[0].o}function l(){const p=S.kweekOpdr|0;let w=S.kweekAct;if(w&&w.n!==p&&(w.n<p&&(S.kweekGedaan=S.kweekGedaan||{},S.kweekGedaan[w.z]=(S.kweekGedaan[w.z]|0)+(p-w.n)),w=null),w&&!i(w.z)&&(w=null),w&&!a(w.z)&&!((S.oogst||{})[w.z+"#"+p]>0)&&(w=null),!w){w={z:r()[0],n:p},S.kweekAct=w;try{bewaar()}catch{}}return i(w.z)}if(!S.kweekAct)try{const p=e(),w=S.kweekOpdr|0;(((S.oogst||{})[p[0]+"#"+w]|0)>0||a(p[0]))&&(S.kweekAct={z:p[0],n:w}),bewaar()}catch{}kOpdr=function(){try{return l()}catch{return e()}},window.zwKweekVolgorde=()=>o().map(p=>p.o[0]+"@"+n(p.o[0]))})(),(function(){"use strict";def("serieBel",{});const e={Tovenaars:"Kenner van de Tovenaars",Heksen:"Kenner van de Heksen",Beesten:"Vriend van de Beesten",Draken:"Drakenkenner",Reuzen:"Reuzenkundige",Kobolden:"Koboldenkundige",Vampiers:"Vampierdeskundige",Zwerkbal:"Zwerkbalverzamelaar",Bonus:"Erekandidaat van het album"};function n(){const h=typeof KAARTSERIES<"u"&&KAARTSERIES||window.KAARTSERIES||[],f=typeof KAARTEN<"u"&&KAARTEN||window.KAARTEN||[];return h.map(K=>{const E=f.filter(x=>x[4]===K),g=E.filter(x=>S.kaarten&&S.kaarten[x[0]]);return{naam:K,kaarten:E,heb:g,klaar:E.length>0&&g.length===E.length}})}function a(h,f={}){if(!h||!h.klaar||(S.serieBel||{})[h.naam])return!1;S.serieBel=S.serieBel||{},S.serieBel[h.naam]=1,S.titels=S.titels||[],S.titels.includes(e[h.naam]||h.naam)||S.titels.push(e[h.naam]||h.naam),bewaar();let K="";try{if(window.zeldzaamZaad){const g=zeldzaamZaad("album",{stil:1});K=g&&g.naam?g.naam:g||""}}catch{}const E=e[h.naam]||h.naam;if(!f.stil){const g=K?`Tilly: \u201CEen complete serie ${h.naam.toLowerCase()}! Je bent nu ${E}. En kijk, er lag een zeldzaam zaadje bij.\u201D`:`Tilly: \u201CEen complete serie ${h.naam.toLowerCase()}! Je bent nu ${E}.\u201D`;try{verhaal([["Tilly",g]],()=>{try{fx.speel("fanfare")}catch{}})}catch{try{toast("Serie "+h.naam+" compleet: "+E)}catch{}}}return!0}window.serieNaKaart=function(h){try{n().forEach(f=>a(f))}catch(f){console.warn(f)}};const o=V.album;V.album=function(){const h=n(),K=(typeof KAARTEN<"u"&&KAARTEN||window.KAARTEN||[]).length,E=Object.keys(S.kaarten||{}).length,g=h.map(x=>{const m=(S.serieBel||{})[x.naam],k=`<div class="aserkop"><h3>${x.naam}</h3><small>${x.heb.length}/${x.kaarten.length}${x.klaar?" \xB7 Compleet":""}${m?" \xB7 "+(e[x.naam]||""):""}</small></div>`,v=x.kaarten.map(s=>{const z=S.kaarten[s[0]]||0,c=z&&s[3]?`<img src="${s[3]}" alt="${s[0]}" loading="lazy">`:z?s[0].split(" ").map(b=>b[0]).join(""):"?";return`<div class="akaart ${z?"heb r"+s[1]:""}" title="${z?(s[2]||s[0]).replace(/"/g,""):"Nog niet gevonden"}"><div class="kfoto">${c}</div><b>${z?s[0]:"???"}</b><small>${z>1?"\xD7"+z:z?"&nbsp;":"nog te vinden"}</small></div>`}).join("");return`<section class="aserie ${x.klaar?"compleet":""}">${k}<div class="album">${v}</div></section>`}).join("");app(`<h1 class="pagkop">Kaartenalbum</h1><p>${E} van ${K} kaarten verzameld. Een complete serie geeft een titel, een korte sc\xE8ne en een zeldzaam zaadje. Dubbele kaarten bewaar je gewoon in je album.</p>${g}<p class="klein">Kaarten vind je in kistjes in de levels, als mijlpaal bij elk 10e level, als cadeau, in de bonuskamer en in Hagrids pompoenen.</p>`);try{h.forEach(x=>a(x))}catch{}};const i=typeof POST<"u"&&POST?POST:[["Tilly","Er kwam een uil voor je, Luna!"]];function r(){try{const h=typeof schoolDag=="function"?schoolDag():null,f=h&&h.inhoud?h.inhoud.titel:"je schooldag",K=i[Math.floor(Date.now()/864e5)%i.length],E=h?` Vandaag staat \u201C${f}\u201D op het programma.`:"";let g=K[1]||"";return g=g.replace(/\s*Er zaten 10 Smekkies bij\.?/gi,"").replace(/\s*Er zitten 10 Smekkies bij[,.]?/gi,"").replace(/\s*En hij stuurt 10 Smekkies mee\.?/gi,"").replace(/\s*alleen 10 glinsterende Smekkies en de woorden:/gi," de woorden:").replace(/\s*en de kaart danst nog steeds een beetje\.?/gi,".").trim(),[K[0],g+E]}catch{return i[0]}}function l(){const h=Date.now();return S.uilenpost?h-S.uilenpost>=2*864e5:(S.uilenpost=h,bewaar(),!1)}function p(){try{const h=j({geenPost:!0});return h?h.tekst:""}catch{return""}}const w=V.login;V.login=function(){const h=S.login||{dag:0,laatst:""},f=h.laatst===vandaag(),K=f?(h.dag+6)%7:h.dag%7;if(document.querySelector(".modal[data-pop=login],.modal[data-pop=ochtend]"))return;const E=!1,g=typeof LOGIN<"u"?LOGIN:[["15 Smekkies",{g:15}]],x=g[K],[m,k]=r(),v=p(),s=document.createElement("div");s.className="modal",s.dataset.pop="ochtend",s.innerHTML=`<div class="perkament modalin rococo ochtendpost">
     <p class="klein ochtenduil">Dagbeloning</p>

diff --git a/sw.js b/sw.js
@@ -1,4 +1,4 @@
-const C='zweinstein-v237';
+const C='zweinstein-v238';
 const F=["./", "index.html", "manifest.json", "CREDITS.txt", "bundel.css", "bundel.js", "img/icoon-192.png", "img/icoon-512.png", "img/lakzegel.webp", "img/sneeuwuil.webp", "img/perkament.webp", "img/perkament-sm.webp", "img/sterrenhemel-sm.webp", "img/hal-zaal-sm.webp", "img/ui/nav-hal-96.webp", "img/ui/nav-kaart-96.webp", "img/ui/nav-kassen-96.webp", "img/ui/nav-boek-96.webp", "img/ui/nav-meer-96.webp", "img/ui/nav-vrienden-96.webp", "img/ui/schild-64.webp", "img/smekkies/zak-half-128.webp", "img/laadschermen/herbologie-klein.webp", "tuin3d.html", "tuin3d.js", "tuin3d.css", "vendor/three.min.js","vendor/GLTFLoader.min.js", "assets/tuin3d/luna.glb", "assets/tuin3d/gargoyle.glb", "assets/tuin3d/dieren/hond.glb", "assets/tuin3d/dieren/kat.glb", "assets/tuin3d/dieren/vos.glb", "assets/tuin3d/dieren/arend.glb", "assets/tuin3d/dieren/kuiken.glb", "assets/tuin3d/tex/gras.webp", "assets/tuin3d/tex/kassei.webp", "assets/tuin3d/tex/kassei-n.webp", "assets/tuin3d/tex/zandsteen.webp", "assets/tuin3d/tex/zandsteen-n.webp", "assets/tuin3d/tex/leisteen.webp", "assets/tuin3d/tex/haag.webp", "assets/tuin3d/tex/steen.webp"];
 const KRITIEK=["./","index.html","bundel.js","bundel.css"];
 async function zetIn(c,u){

diff --git a/versie.js b/versie.js
@@ -1,5 +1,5 @@
 /* ====== v125 Versielabel: klein in Meer en in het makermenu, zodat je kunt zien welke versie een telefoon draait ====== */
-(function(){const VERSIE='v237';window.ZW_VERSIE=VERSIE;
+(function(){const VERSIE='v238';window.ZW_VERSIE=VERSIE;
  const label=()=>`<p class="zwversie">Zweinstein Luna ${VERSIE}</p>`;
  const _meer=V.meer;if(_meer)V.meer=(...a)=>{const r=_meer(...a);try{const app=$('#app');if(app&&!app.querySelector('.zwversie'))app.insertAdjacentHTML('beforeend',label())}catch(e){}return r};
  const _mk=V.maker;if(_mk)V.maker=(...a)=>{const r=_mk(...a);try{const h=$('#app h2');if(h&&!$('#app .zwversie'))h.insertAdjacentHTML('afterend',label())}catch(e){}return r};
